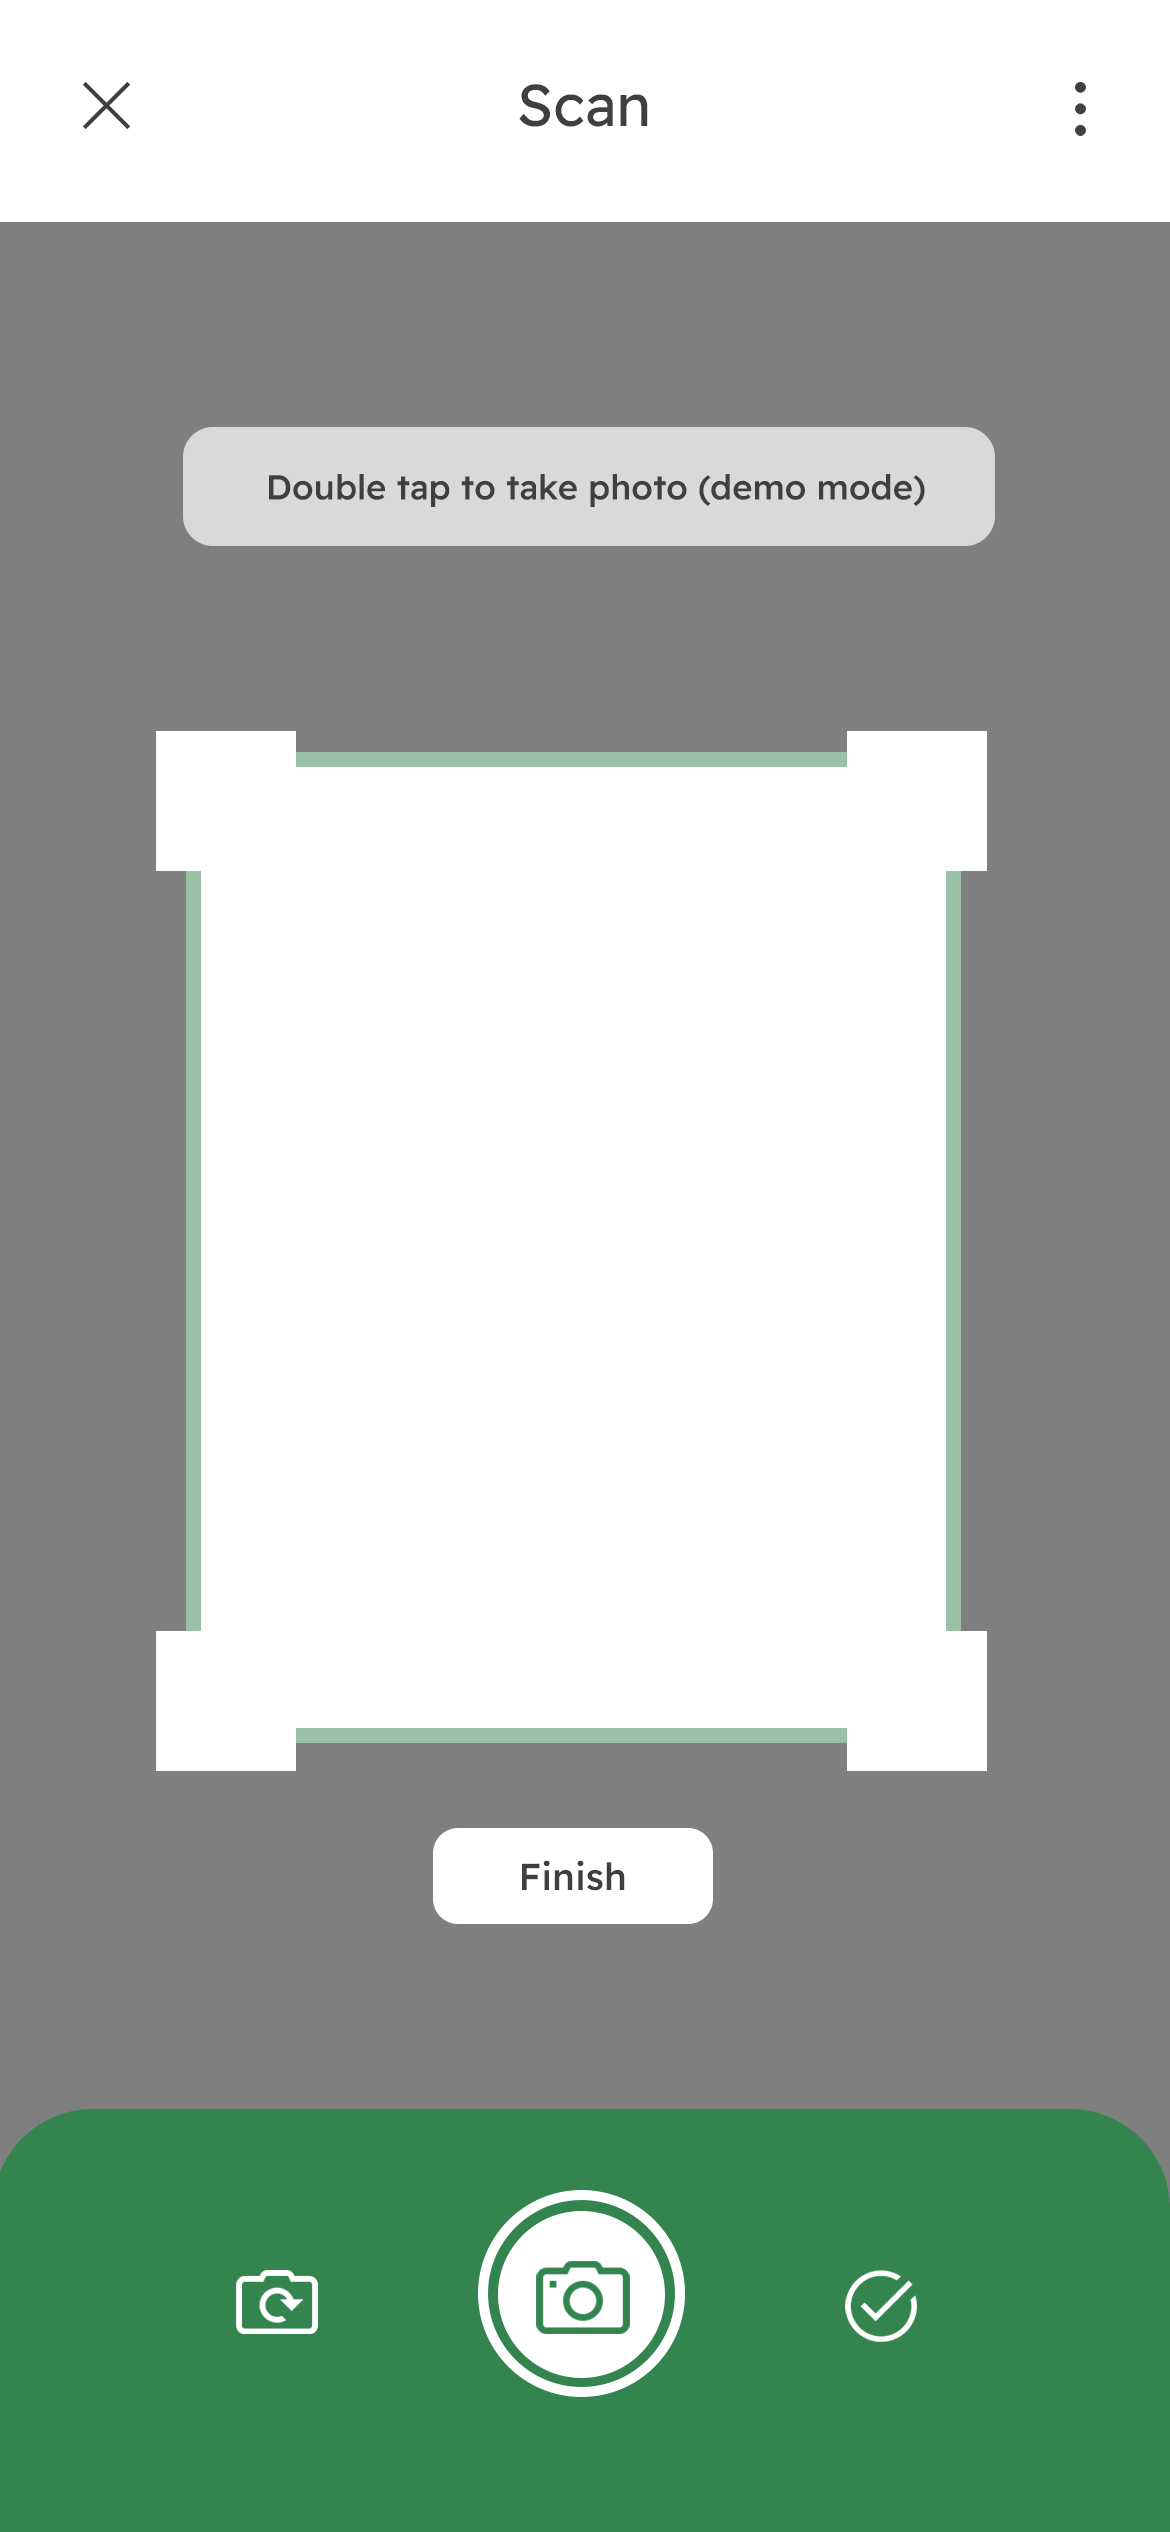
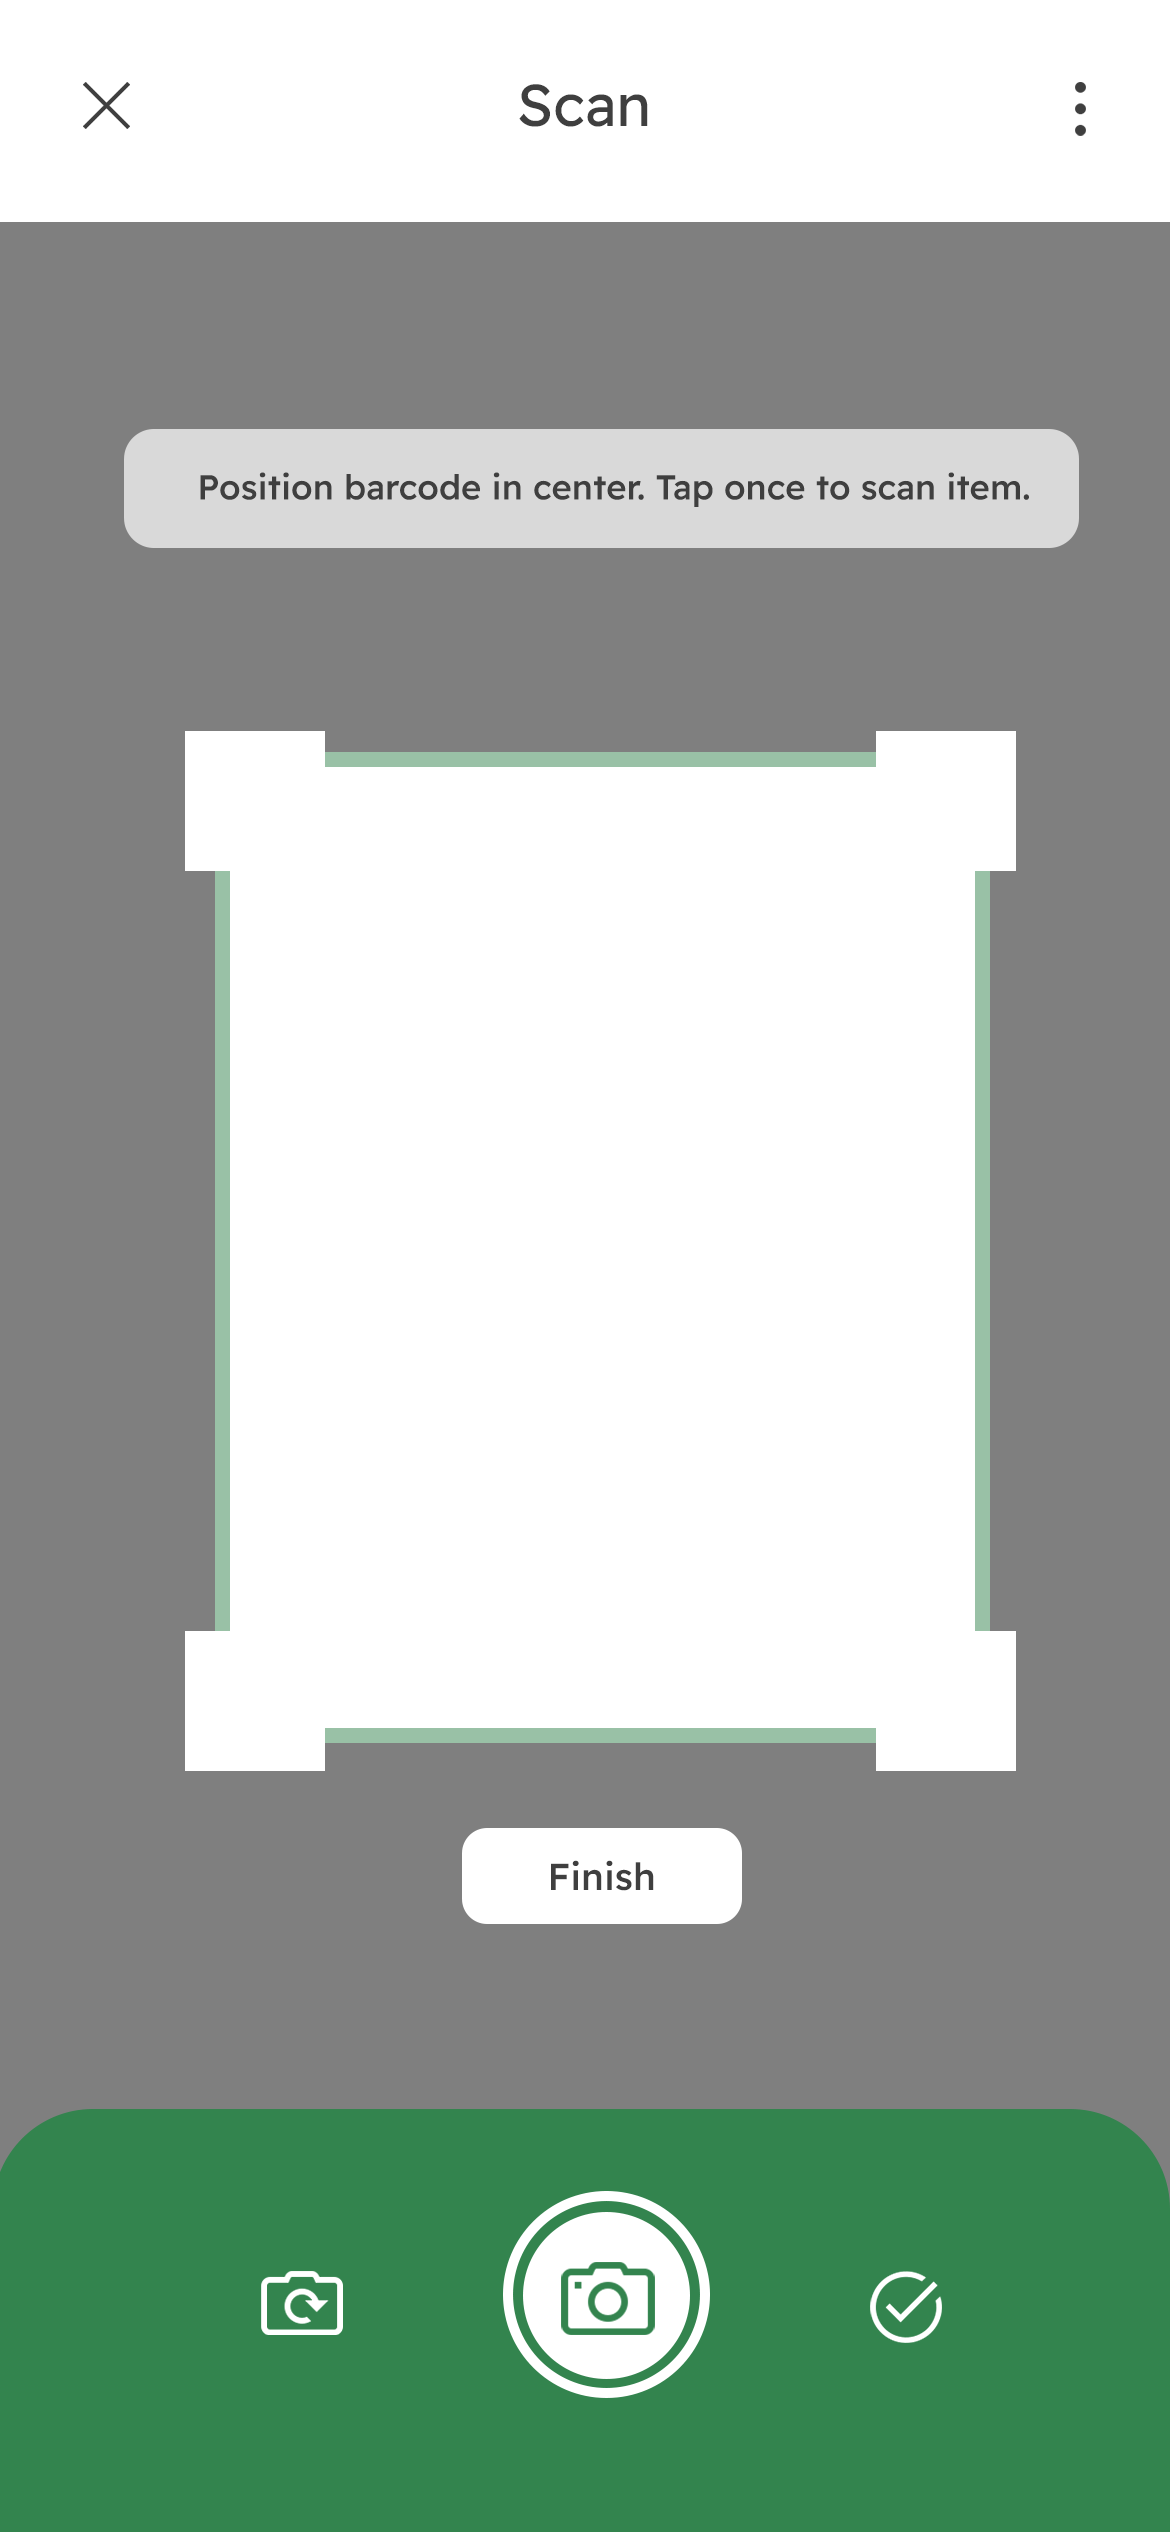
stuff and thing

diff --git a/index.html b/index.html
@@ -16,7 +16,7 @@
     <img id="searchweb" src="images/searchweb.png" onclick="hideImage('searchweb', '#e6e6e', 'notifications', 'profile')">
     <canvas id="canvas"></canvas>
     <video autoplay="true" id="video"></video>
-    <img id="scanweb" src="images/scanweb.png" ondblclick="scan(1)">
+    <img id="scanweb" src="images/scanweb.png" onclick="scan(1)">
     <img id="leaderboard" src="images/leaderboard.png" onclick="hideImage('leaderboard', 'black'); scan(0)">
     <img id="dashboard" src="images/dashboard.png" onclick="hideImage('dashboard')">
     <img id="loading" src="images/loadingweb.png">

diff --git a/styles.css b/styles.css
@@ -5,6 +5,7 @@ body{
     margin-right: 0px;
     padding: 0;
     height: 100vh;
+    overflow: hidden;
 }
 
 img {
